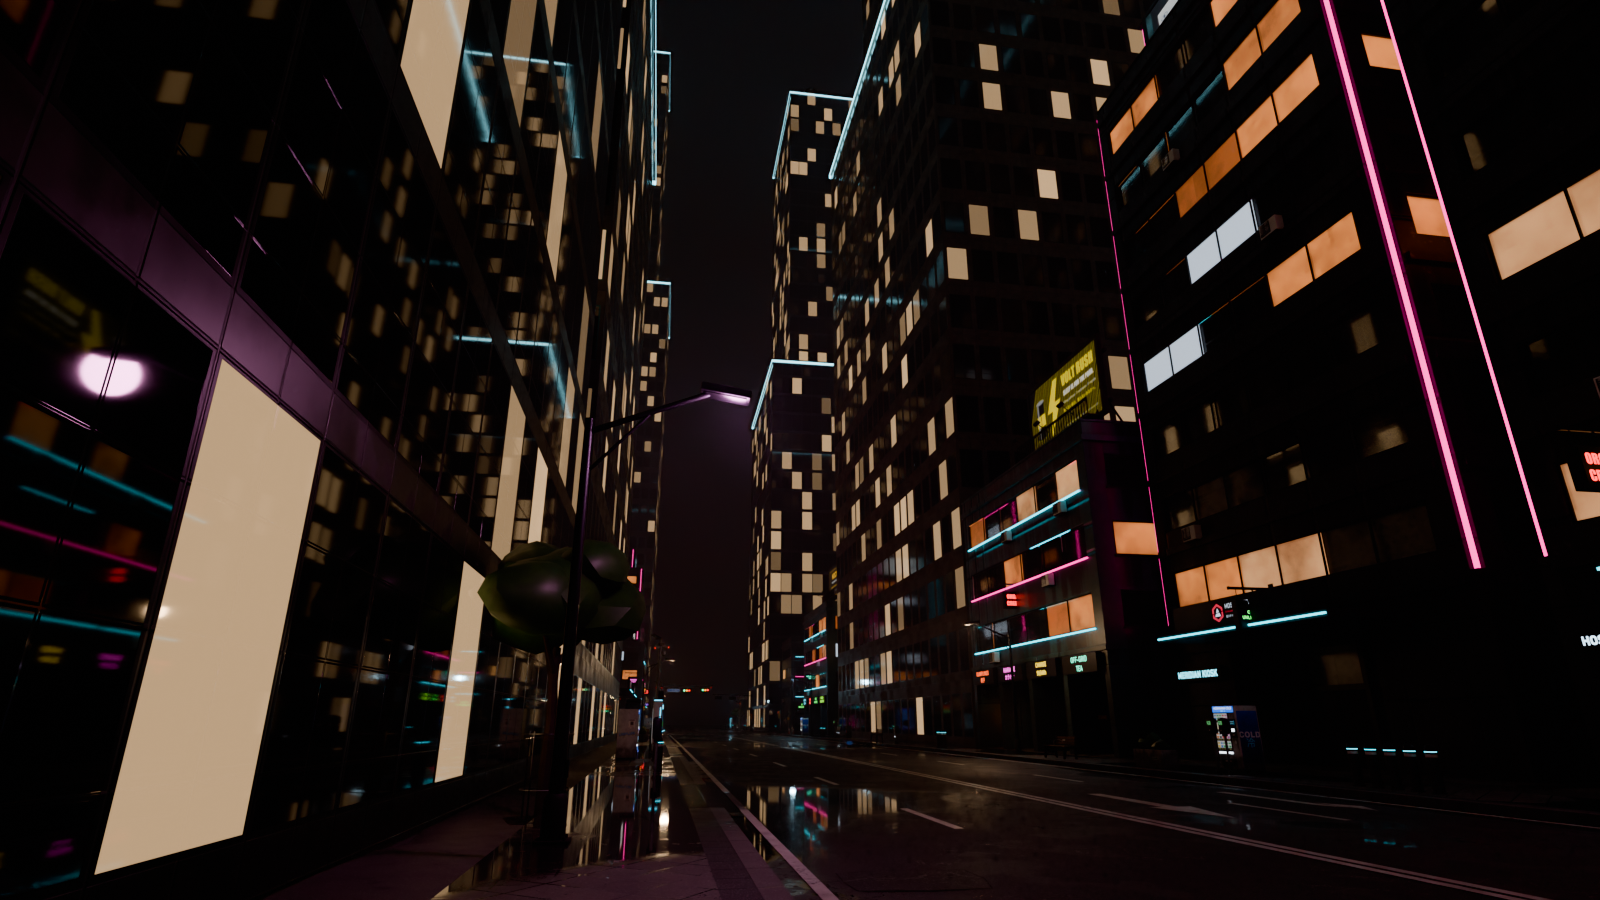
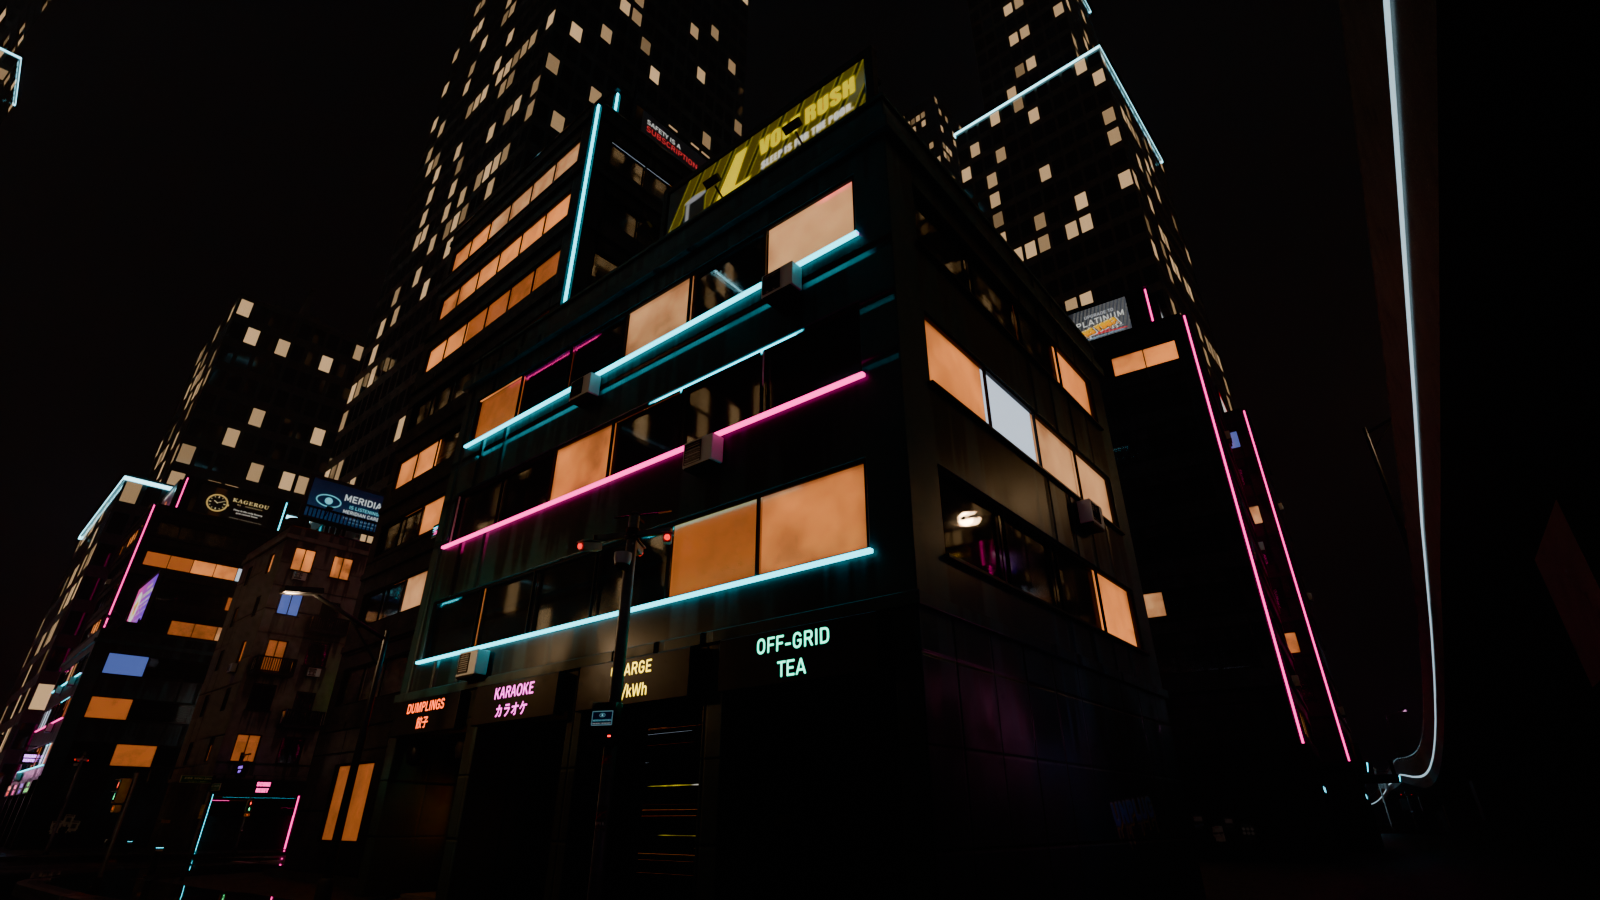
ads: downtown crown camera, Cycles + Godot proof shots, notes

diff --git a/tools/ads_proof.py b/tools/ads_proof.py
@@ -20,8 +20,33 @@ ROOT = os.path.dirname(os.path.dirname(os.path.abspath(__file__)))
 SHOTS = {
     # name: (district, variants that make the shot, camera height, look-up)
     "yoimachi_night": ("yoimachi", {"love_hotel", "hostess_bar", "cabaret_row", "hostess_row", "welcome", "velvet_moon", "peep_show", "snack"}, 1.6, 4.0),
-    "downtown_corporate": ("downtown", {"platinum", "showroom"}, 1.6, 22.0),
 }
+
+
+def crown_cam(w):
+    """Downtown: a walk 45-75 m from a building_c with ad crowns (platinum / showroom), looking up at
+    its crown, placed where the most other ad crowns line up behind it."""
+    cs = [i for i in w["instances"] if i["asset"] == "building_c" and i.get("variant") in ("platinum", "showroom") and i["district"] == "downtown"]
+    best = None
+    for c in cs:
+        for r in w["roads"]:
+            if r.get("class") not in ("street", "avenue"):
+                continue
+            for p in r["points"][::3]:
+                d = math.dist(p[:2], c["pos"][:2])
+                if not 45 < d < 75:
+                    continue
+                n = 0
+                for o in cs:
+                    do = math.dist(p[:2], o["pos"][:2])
+                    if 30 < do < 140 and ((o["pos"][0] - p[0]) * (c["pos"][0] - p[0]) + (o["pos"][1] - p[1]) * (c["pos"][1] - p[1])) / (do * d) > 0.85:
+                        n += 1
+                if best is None or n > best[0]:
+                    best = (n, p, c)
+    n, p, c = best
+    print(f"downtown_corporate: {n} ad crowns in view, cam {p}")
+    return {"name": "downtown_corporate", "loc": [p[0], p[1], p[2] + 1.7], "target": [c["pos"][0], c["pos"][1], c["pos"][2] + 24],
+            "fov_y": 62, "exposure": 0.6, "fog": 0.0015}
 
 
 def main():
@@ -64,6 +89,9 @@ def main():
                      "exposure": 0.6, "fog": 0.002})
         boxes.append((min(loc[0], tgt[0]) - 140, min(loc[1], tgt[1]) - 140, max(loc[0], tgt[0]) + 140, max(loc[1], tgt[1]) + 140))
         print(f"{name}: {score} ad-heavy buildings in view, road {r['id']}, cam {cams[-1]['loc']}")
+    cams.append(crown_cam(w))
+    l, t = cams[-1]["loc"], cams[-1]["target"]
+    boxes.append((min(l[0], t[0]) - 150, min(l[1], t[1]) - 150, max(l[0], t[0]) + 150, max(l[1], t[1]) + 150))
     p = os.path.join(out, "cams.json")
     json.dump(cams, open(p, "w", encoding="utf-8"), indent=1)
     for (x0, y0, x1, y1), c in zip(boxes, cams):

diff --git a/docs/agents/ads/NOTES.md b/docs/agents/ads/NOTES.md
@@ -15,9 +15,10 @@ corporate ads.
 |---|---|
 | `contact_sheet.jpg` | Every new design (116). |
 | `yoimachi_night.png` | Cycles, 128 samples, street level in Yoimachi at night. It shows the ホテル blades, Velvet Moon fascias, the WELCOME 宵町 hanging sign, the Noir Satin rooftop billboard and the karaoke and hotel signs down the street. |
-| `downtown_corporate.png` | Cycles, a downtown street. The building_c crowns carry the corporate ads (platinum / showroom variants), and the towers have corporate crown billboards. |
-| `godot_yoimachi.png`, `godot_downtown.png` | The game (Godot) from the same two cameras (`--spot-cams`). |
-| `closeup_*.png` | Pigment close-ups of the new variants: love hotel, hostess bar, cabaret row, the dense ad walls. |
+| `downtown_corporate.png` | Cycles, downtown, looking up from the walk at the building_c crowns (platinum / showroom variants): Safety Is A Subscription, Upgrade to Platinum, Kagerou, MERIDIAN. A building_b with the Volt Rush roof billboard is in front. |
+| `godot_yoimachi.png`, `godot_downtown.png` | The game (Godot 4.7, rain on, `--clean`) from the same two cameras (`--spot-cams`). Yoimachi runs at 81 fps, downtown at 131 fps (RTX 4070 Ti, 1080p). |
+| `closeup_fronts.png` | Pigment, night: love_hotel (VELVET MOON HOTEL fascia, rates vinyl on the lit shop window), hostess_bar (CLUB SAPPHIRE), and cabaret_row's four bays (CABARET LUNA, PEEP SHOW with hearts vinyl, HOST ZERO, スナック夜蝶). |
+| `closeup_ad_walls.png` | Pigment, overcast light so the paper reads: the dense ad walls on love_hotel's back wall, cabaret_row's back wall, and hostess_row's east wall (UNPLUG painted over them). |
 
 ## Content boundaries
 
@@ -212,6 +213,9 @@ godot --path game -- --bench-spots=<T>/godot --spot-cams=<T>/cams.json --spots=y
 - **Texel density.** Street-level paper reads at 20–30 texels across at 2048 (see
   decalfix). The ad walls read as colour and layout, not small print.
 - **Lightbox editions.** 7 of the 9 lightboxes reuse their poster's art over a brand strip.
+- **Window vinyl.** The vinyl is backlit (emissive 3, or it vanishes into a lit shop
+  pane). The shop glass has few texels, so the price list reads as lettering, not
+  numbers.
 - **District weights are soft.** A few ordinary variants still turn up in Yoimachi, and the
   district edge at downtown's radius is a hard boundary.
 - **Size.** The 116 PNGs are 17 MB, because the posters carry noise and torn alpha.
